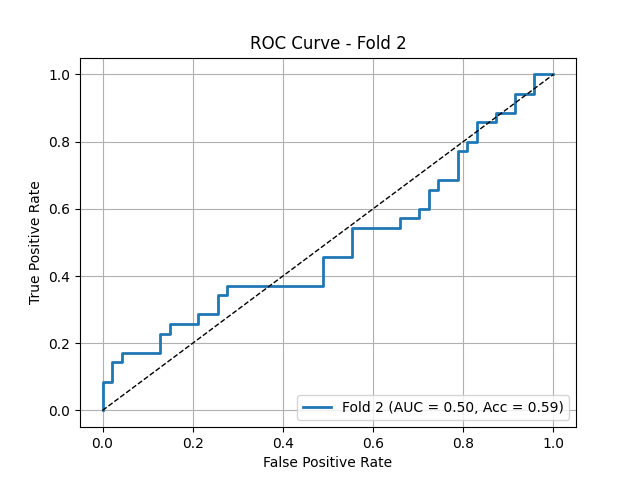
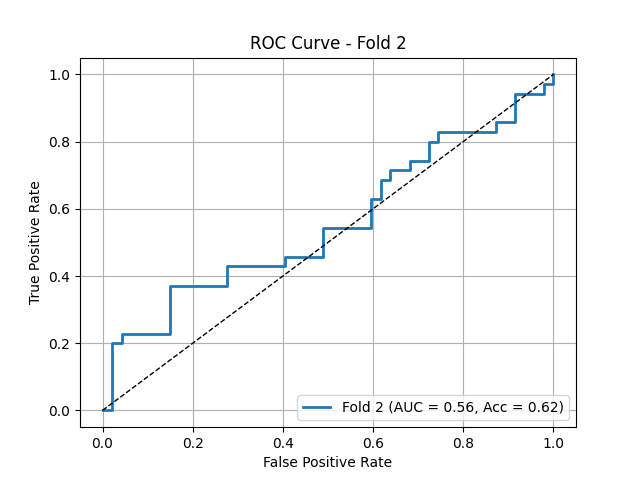
shift grid brightcontrast

diff --git a/dataset_washu2.py b/dataset_washu2.py
@@ -85,7 +85,7 @@ train_transform = A.Compose([
     #A.ElasticTransform(alpha = 1, sigma = 50, p=0.8),
     A.GridDistortion(distort_limit=(-0.1,0.1), p=0.5),
 	# #A.GaussNoise(var_limit=(0.2, 0.44), p=1),
-    A.RandomBrightnessContrast(brightness_limit=(0, 0.15), contrast_limit=(0, 0.05), p=0.5),
+    A.RandomBrightnessContrast(brightness_limit=(0, 0.01), contrast_limit=(0, 0.01), p=0.5),
     # #A.CLAHE(clip_limit=.5, tile_grid_size=(8, 8), p=0.5),
     # A.Downscale(scale_range=(0.8,0.99), p=0.5),
 	
